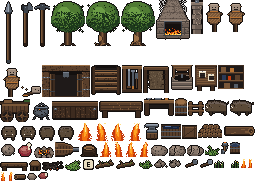
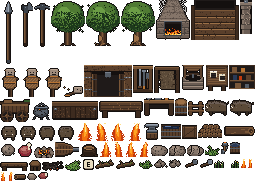
Scianki dzialowe bez wmalowanego cienia, cienie miekkie i bez slonca pod dachem
Trzy rzeczy zgloszone z gry.

1. Scianki dzialowe mialy pod soba pelna kreske z sadzy na cala szerokosc
   kafla, polozona na srodku podlogi. Mialo to byc stykiem, a bylo czarnym
   pasem - czyli dokladnie tym cieniem wmalowanym w grafike, ktorego
   w kaflach byc nie moze. Zostaje ciemna krawedz samej belki (wood 0).
   Sprawdzone w pikselach: zero pikseli z rampy sadzy w obu kaflach.

2. Obiekty pod dachem dostawaly cien od slonca. Nad nimi jest dach, wiec
   slonce ich nie dotyczy - lawki i skrzynie w karczmie rzucaly cien
   sloneczny przez cala sale, mimo ze jedynym swiatlem sa palenisko
   i pochodnie. ShadowCaster dostal obrys budynku i w srodku pomija slonce.

3. Cienie zmiekczone: krycie 0.45 -> 0.3 plus druga, wieksza i bledsza kopia
   sylwetki pod spodem. Prawdziwy poltcien rozmywa sie z odlegloscia od
   podstawy i bez shaderow tego nie zrobimy, ale dwie warstwy o roznej
   wielkosci czytaja sie juz jako miekki cien, a nie jako czarny prostokat.

Schody zdjete z mapy. Trzy podejscia daly kolejno pochylnie, drabine
i skrzynie z czarna dziura - czytelne schody w rzucie 3/4 wymagaja widoku
z boku i profilu, a nie stosu poziomych pasow. Wroca razem z pokojem gracza.

Changed region(s): [[0.0, 0.3591, 1.0, 0.5525], [0.7412, 0.0, 0.9882, 0.221]]

diff --git a/client/src/render/shadows.js b/client/src/render/shadows.js
@@ -60,9 +60,16 @@ export function lightAt(lights, x, y, minDistance = 18, outdoorScale = 1) {
 }
 
 export class ShadowCaster {
-  constructor(scene, lights) {
+  /**
+   * @param building prostokąt budynku. Obiekty stojące w środku **nie dostają
+   *   cienia od słońca** — nad nimi jest dach. Bez tego ławki i skrzynie
+   *   w karczmie rzucały cień słoneczny przez całą salę, mimo że słońca tam nie
+   *   ma, a jedynym światłem są palenisko i pochodnie.
+   */
+  constructor(scene, lights, building = null) {
     this.scene = scene;
     this.lights = lights;
+    this.building = building;
     this.statics = [];
     this.sunDx = 0;
     this.sunDy = 1;
@@ -89,7 +96,15 @@ export class ShadowCaster {
       .setDepth(-59)
       .setTint(0x000000);
 
-    const shadow = { contact, cast, squash, x, y };
+    // Miękka otoczka cienia — ta sama sylwetka, większa i bledsza. Rysowana POD
+    // ostrym cieniem, więc razem dają wrażenie przejścia.
+    const soft = this.scene.add.image(x, y, textureKey, frameName)
+      .setOrigin(0.5, 1)
+      .setDepth(-60.5)
+      .setTint(0x000000)
+      .setAlpha(0);
+
+    const shadow = { contact, cast, soft, squash, x, y };
     // Cienie obiektów **stojących** trzymamy na liście, bo słońce wędruje i trzeba
     // je odświeżać. Przy dwóch tysiącach roślin robimy to rzadko i tylko w kadrze —
     // co ćwierć sekundy nikt nie zauważy skoku, a co klatkę byłoby to najdroższą
@@ -111,6 +126,7 @@ export class ShadowCaster {
     if (!shadow) return;
     shadow.contact.destroy();
     shadow.cast.destroy();
+    shadow.soft?.destroy();
     const i = this.statics.indexOf(shadow);
     if (i >= 0) this.statics.splice(i, 1);
   }
@@ -159,10 +175,17 @@ export class ShadowCaster {
     // zniknąć w nocy, plama nie.
     contact.setAlpha(0.5 + 0.2 * (this.sunPower ?? 0));
 
-    let { dx, dy, weight } = lightAt(this.lights, x, y, 18, this.outdoorFire ?? 1);
-    // Poza zasięgiem ognia rządzi słońce. Dokładamy je zawsze, więc obiekt przy
-    // ognisku ma cień od ognia, a dziesięć kroków dalej płynnie od słońca.
-    if (this.sunPower > 0) {
+    // Pod dachem ogień świeci pełną mocą niezależnie od pory — tak samo jak
+    // w masce światła.
+    const podDachem = this.building
+      && x >= this.building.x && x <= this.building.x + this.building.w
+      && y >= this.building.y && y <= this.building.y + this.building.h;
+
+    let { dx, dy, weight } = lightAt(this.lights, x, y, 18, podDachem ? 1 : (this.outdoorFire ?? 1));
+    // Poza zasięgiem ognia rządzi słońce. Dokładamy je zawsze **poza budynkiem**:
+    // obiekt przy ognisku ma cień od ognia, a dziesięć kroków dalej płynnie od
+    // słońca. Pod dachem słońca nie ma i cień idzie wyłącznie od ognia.
+    if (this.sunPower > 0 && !podDachem) {
       dx += this.sunDx * this.sunPower;
       dy += this.sunDy * this.sunPower;
       weight += this.sunPower;
@@ -171,6 +194,7 @@ export class ShadowCaster {
     const length = Math.hypot(dx, dy);
     if (weight < 0.06 || length < 0.001) {
       cast.setVisible(false);
+      shadow.soft?.setVisible(false);
       return;
     }
     cast.setVisible(true);
@@ -179,12 +203,28 @@ export class ShadowCaster {
     // ucieczki od światła, a skala Y spłaszcza go do płaszczyzny ziemi.
     cast.rotation = Math.atan2(dx / length, -(dy / length));
     cast.scaleY = shadow.squash;
-    cast.setAlpha(Math.min(0.45, 0.1 + weight * 0.38));
+    // Krycie niższe niż wcześniej (0,45 → 0,3) i **druga, większa kopia** o niskim
+    // kryciu: razem dają miękką krawędź zamiast ostrej sylwetki. Prawdziwy półcień
+    // rozmywa się z odległością od podstawy, a tego bez shaderów nie zrobimy —
+    // ale dwie warstwy o różnej wielkości czytają się już jako miękki cień,
+    // a nie jako czarny prostokąt wycięty nożyczkami.
+    const krycie = Math.min(0.3, 0.07 + weight * 0.26);
+    cast.setAlpha(krycie);
+    if (shadow.soft) {
+      shadow.soft.setVisible(true);
+      shadow.soft.setPosition(x, y);
+      shadow.soft.rotation = cast.rotation;
+      shadow.soft.scaleX = 1.35;
+      shadow.soft.scaleY = shadow.squash * 1.3;
+      shadow.soft.setAlpha(krycie * 0.42);
+    }
   }
 
   setFrame(shadow, frameName, flipX) {
     shadow.cast.setFrame(frameName);
     shadow.cast.setFlipX(flipX);
+    shadow.soft?.setFrame(frameName);
+    shadow.soft?.setFlipX(flipX);
   }
 
   /** Potrzebne przy graczach — kiedy ktoś wyjdzie, jego cień ma zniknąć razem z nim. */

diff --git a/tools/art/props.js b/tools/art/props.js
@@ -816,33 +816,41 @@ function counter(name) {
  */
 function stairs(name) {
   const rng = rngFor(name);
-  const t = new Canvas(30, 30);
+  const W = 48;
+  const H = 40;
+  const t = new Canvas(W, H);
 
-  // Pierwsza wersja zwężała stopnie ku górze i wychodziła z tego pochylnia
-  // z paskami — użytkownik nie rozpoznał, co to jest. Schody czyta się po
-  // **stopniach o równej szerokości i wyraźnym podcieniu pod każdym**: to cień
-  // pod nosem stopnia mówi, że jedno jest wyżej od drugiego, a nie zbieżność.
-  const KROK = 5;
-  for (let i = 0; i < 5; i++) {
-    const y = 25 - i * KROK;
-    t.rect(3, y - 3, 24, 4, c('wood', 2));           // podnóżek
-    t.hline(3, 26, y - 3, c('wood', 4));             // światło na krawędzi stopnia
-    t.hline(3, 26, y, c('wood', 0));                 // podcień — najważniejszy piksel
-    t.hline(3, 26, y + 1, c('soot', 1));
-    t.speckle(rng, c('wood', 1), 0.14, { x: 4, y: y - 2, w: 22, h: 2 });
+  // Bez poręczy i bez ozdób. Poprzednia próba dokleiła jasną tralkę, która
+  // z zoomu czytała się jak papieros wetknięty w stopnie — a schody i tak
+  // wyglądały jak drabina. Zostaje sam bieg: **jednolite stopnie rozdzielone
+  // cienką kreską** i ciemny otwór u szczytu. To otwór mówi „w górę", nie stopnie.
+  const POLICZEK = 4;
+  const KROK = 6;
+
+  // Bieg: jedna płaszczyzna, potem same kreski podziału. Rysowanie stopni jako
+  // osobnych belek zawsze dawało szczeble.
+  t.rect(POLICZEK, 9, W - POLICZEK * 2, H - 9, c('wood', 2));
+  for (let y = H - KROK; y > 10; y -= KROK) {
+    // Podstopnica **musi być widoczna**. Wersja z `wood 1` na `wood 2` to różnica
+    // jednego stopnia rampy, czyli w praktyce żadna — stopnie znikały i zostawała
+    // skrzynia z czarną dziurą u góry.
+    t.hline(POLICZEK, W - POLICZEK - 1, y, c('wood', 0));
+    t.hline(POLICZEK, W - POLICZEK - 1, y + 1, c('wood', 4));   // nosek stopnia
+  }
+  t.speckle(rng, c('wood', 1), 0.07, { x: POLICZEK + 1, y: 10, w: W - POLICZEK * 2 - 2, h: H - 11 });
+
+  // Policzki: proste belki, ciemniejsze od stopni, po jednym pikselu obrysu.
+  for (const x of [0, W - POLICZEK]) {
+    t.rect(x, 6, POLICZEK, H - 6, c('wood', 1));
+    t.vline(x, 6, H - 1, c('wood', 0));
+    t.vline(x + POLICZEK - 1, 6, H - 1, c('wood', 0));
   }
 
-  // Policzki po bokach — bez nich stopnie wiszą w powietrzu.
-  t.rect(1, 2, 3, 27, c('wood', 1));
-  t.rect(26, 2, 3, 27, c('wood', 1));
-  t.vline(1, 2, 28, c('wood', 0));
-  t.vline(28, 2, 28, c('wood', 0));
+  // Otwór na piętro.
+  t.rect(POLICZEK, 0, W - POLICZEK * 2, 10, c('soot', 1));
+  t.rect(POLICZEK + 1, 1, W - POLICZEK * 2 - 2, 7, c('soot', 0));
+  t.hline(POLICZEK, W - POLICZEK - 1, 10, c('wood', 3));
 
-  // Otwór na górze: ciemność, do której prowadzą. Bez niej schody kończą się
-  // w połowie i wyglądają jak podest.
-  t.rect(4, 0, 22, 5, c('soot', 1));
-  t.rect(5, 0, 20, 3, c('soot', 0));
-  t.hline(4, 25, 5, c('wood', 3));                   // próg u szczytu
   return finish(t);
 }
 

diff --git a/tools/art/tiles.js b/tools/art/tiles.js
@@ -260,9 +260,9 @@ function partitionWall(name, dir) {
     t.rect(x0, 0, GRUBOSC, TILE, c('wood', 1));
     t.vline(x0, 0, TILE - 1, c('wood', 3));
     t.vline(x0 + 1, 0, TILE - 1, c('wood', 2));
-    t.vline(x0 + GRUBOSC - 2, 0, TILE - 1, c('wood', 0));
-    // Kant od strony ciemnej — najciemniejszy odcień drewna, nie sadza:
-    // obrys ma być najciemniejszym odcieniem materiału, nigdy czernią.
+    // **Jeden** ciemny piksel na kant, nie dwa. Podwójna ciemna kolumna czytała
+    // się jako pas cienia domalowany z boku ścianki — czyli dokładnie to, czego
+    // w kaflu być nie może.
     t.vline(x0 + GRUBOSC - 1, 0, TILE - 1, c('wood', 0));
     t.speckle(rng, c('wood', 2), 0.16, { x: x0 + 1, y: 0, w: GRUBOSC - 2, h: TILE });
     // Poprzeczne styki bali — inaczej ścianka jest gładką rurą.
@@ -279,7 +279,10 @@ function partitionWall(name, dir) {
   t.hline(0, TILE - 1, 2 + GRUBOSC - 1, c('wood', 0));
   t.speckle(rng, c('wood', 1), 0.18, { x: 0, y: 4, w: TILE, h: GRUBOSC - 3 });
   for (let x = 2; x < TILE; x += 6) t.vline(x, 3, 2 + GRUBOSC - 2, c('wood', 1));
-  t.hline(0, TILE - 1, 2 + GRUBOSC, c('soot', 0));
+  // **Bez kreski z sadzy pod ścianką.** Miała być stykiem, a była czarnym pasem
+  // na całą szerokość kafla, położonym na środku podłogi — czyli dokładnie tym
+  // cieniem wmalowanym w grafikę, którego w kaflach być nie może. Ciemna krawędź
+  // samej belki (`wood 0`, wiersz wyżej) w zupełności wystarcza.
   return t;
 }
 

diff --git a/client/src/world/forge.js b/client/src/world/forge.js
@@ -589,7 +589,7 @@ function buildProps() {
   // Przedsionek (px 352-416, y 256-304) zostaje **pusty**. To nie jest dziura
   // do zapełnienia, tylko miejsce, z którego gracz odczytuje, gdzie jest.
   add('campfire', 392, 152, { w: 16, h: 7 }, { noShadow: true });
-  add('cookpot', 432, 154, { w: 16, h: 8 });
+  add('cookpot', 424, 158, { w: 16, h: 8 });
   add('bench', 392, 122, { w: 26, h: 6 });          // za ogniem
   add('bench', 340, 168, { w: 26, h: 6 });          // z lewej
   add('bench', 444, 172, { w: 26, h: 6 });          // z prawej
@@ -606,12 +606,9 @@ function buildProps() {
   add('barrel', 288, 118, { w: 12, h: 8 });
   add('crate', 304, 130, { w: 14, h: 8 });
 
-  // Schody na górę, do pokoi — **w prawym górnym rogu salonu**.
-  //
-  // Nie w warsztacie i nie w osobnej klatce: stoją naprzeciwko bramy, więc widać
-  // je od razu po wejściu. Pokoje są miejscem, do którego idzie się celowo,
-  // ale najpierw trzeba wiedzieć, że istnieją.
-  add('stairs', 480, 122, { w: 28, h: 10 });
+  // Schodów na razie nie ma. Trzy podejścia dały kolejno pochylnię, drabinę
+  // i skrzynię z czarną dziurą — czytelne schody w rzucie 3/4 wymagają widoku
+  // z boku i profilu, a nie stosu poziomych pasów. Wrócą razem z pokojem gracza.
 
   // POMIESZCZENIE 3 — SKLEP. Kafle x 33-41, y 4-10 (px 528-671, y 64-175).
   //

diff --git a/client/src/scenes/Forge.js b/client/src/scenes/Forge.js
@@ -35,7 +35,7 @@ export class ForgeScene extends Phaser.Scene {
 
     this.drawGround();
     this.wind = new Wind(this);
-    this.shadows = new ShadowCaster(this, this.world.lights);
+    this.shadows = new ShadowCaster(this, this.world.lights, BUILDING_PX);
     // Przed `spawnProps()`, bo to ona podaje mu sprite'y drzew i głazów w tej
     // samej kolejności, w jakiej numeruje je serwer.
     this.nodes = new Nodes(this, this.world, this.shadows, this.wind);
